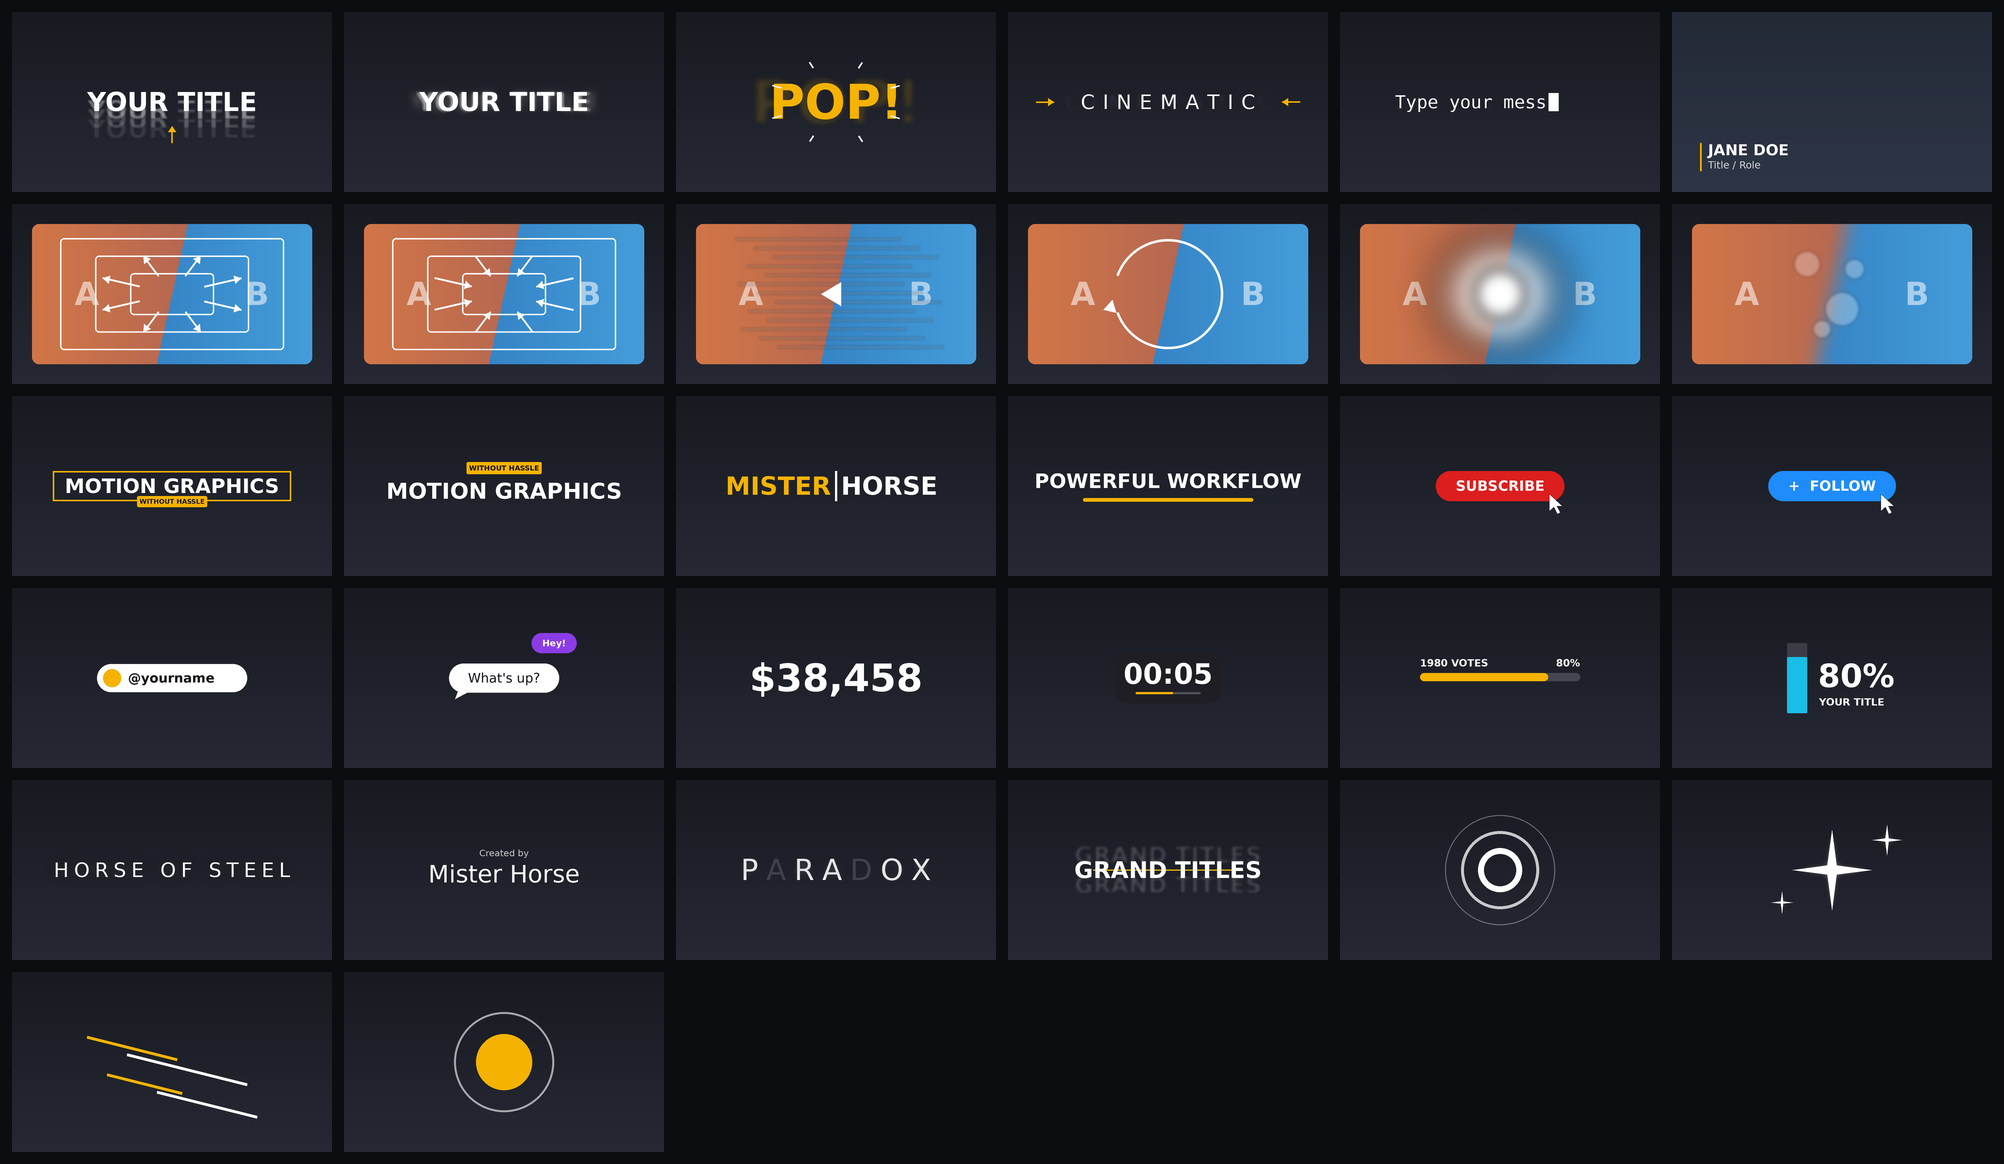
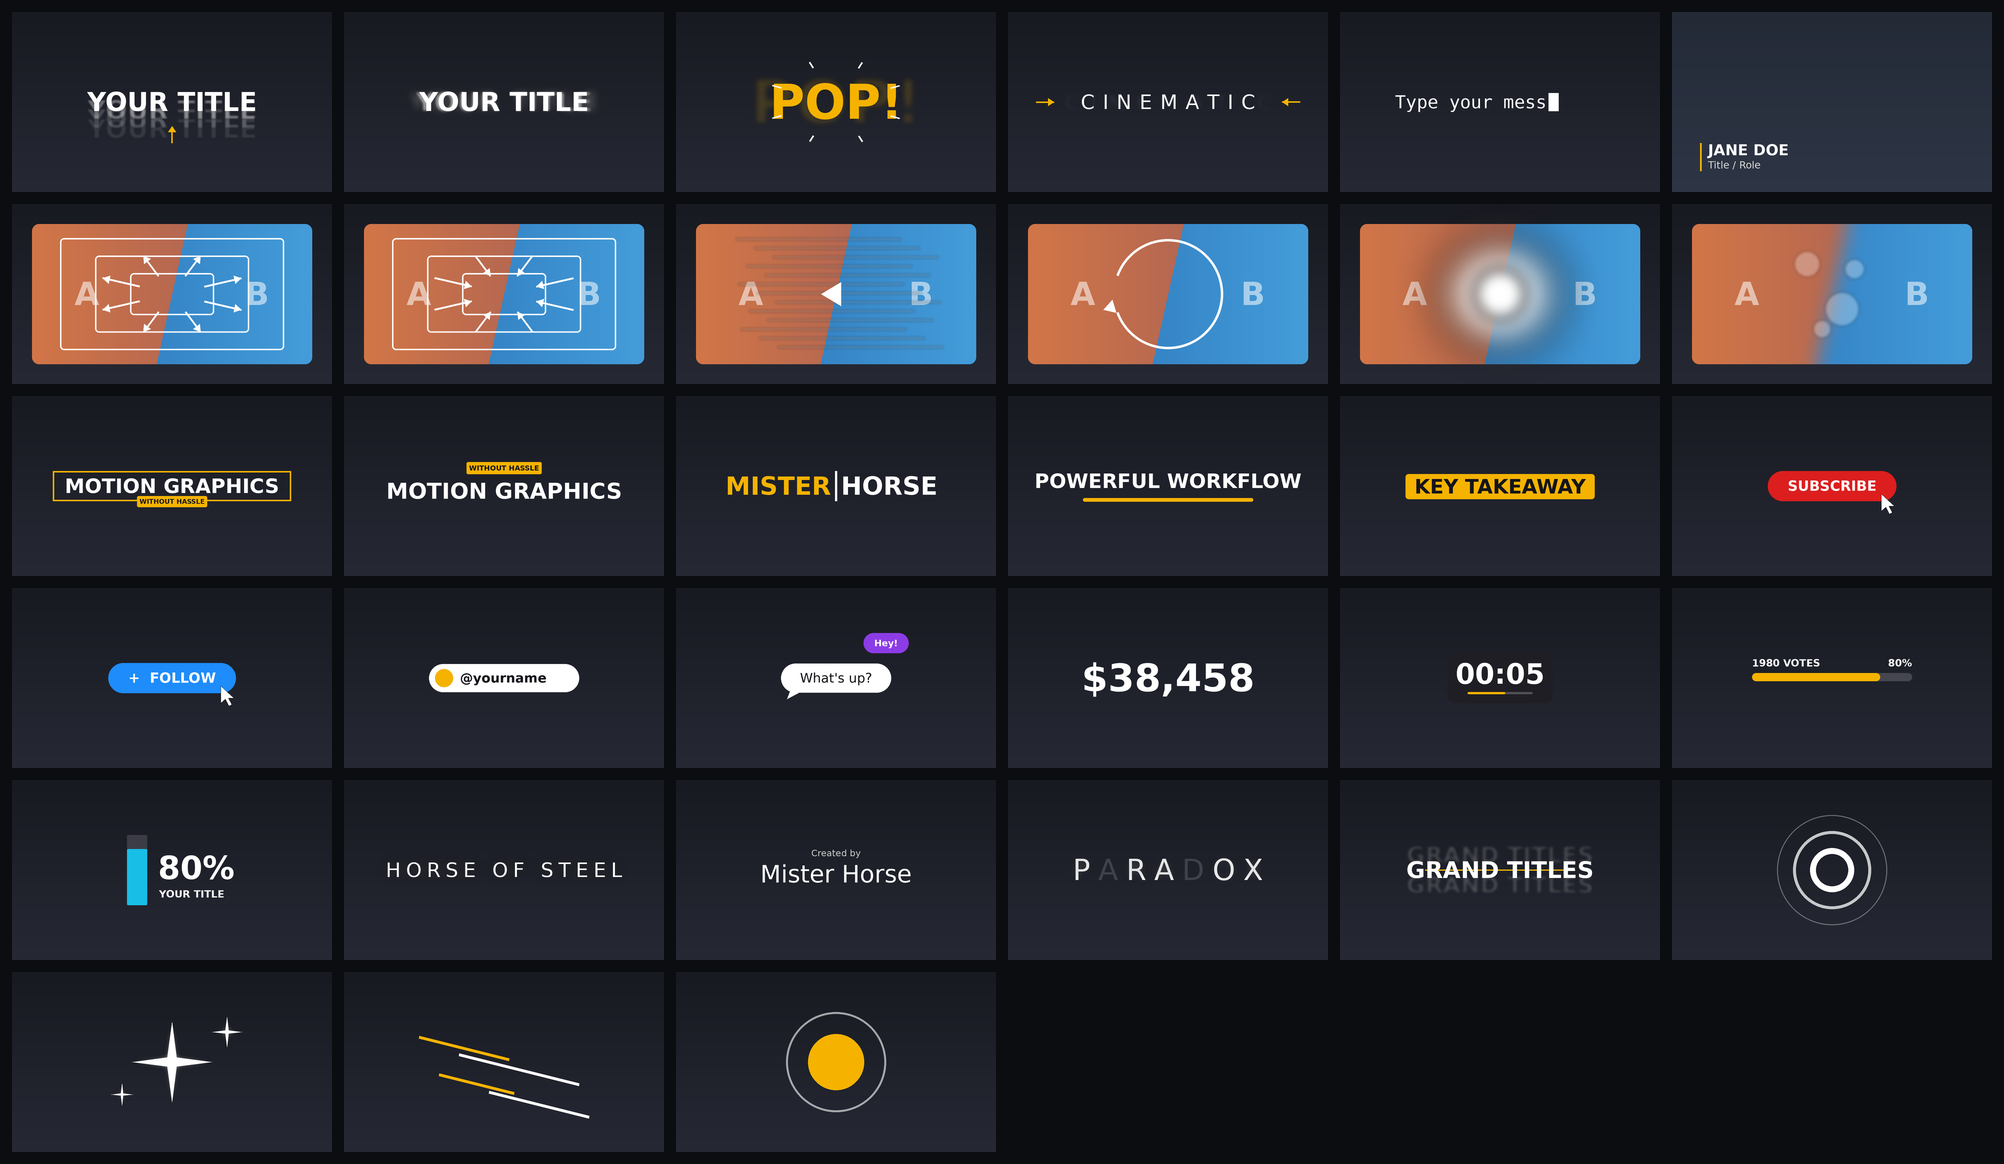
Add Highlight title preset (0.3.1) (#1)
A marker-style accent stroke sweeps left to right behind the title and
reveals the words as it goes, then wipes off to the right on the outro.
Highlight width, height and colour are exposed in the Inspector; the
panel's Accent field sets the marker colour.

Claude-Session: https://claude.ai/code/session_01D51MxHkrgbnfuDv61tLkz6

diff --git a/tools/library_presets.py b/tools/library_presets.py
@@ -280,6 +280,26 @@ def underline():
     return r.build(f"{h}.Ease")
 
 
+def highlight():
+    r = Rig("LL_Highlight", 20, 12, host_inputs=text_inputs("KEY TAKEAWAY", 0.06, center=(0.5, 0.505), rgb=DARK))
+    h = r.h
+    mw = r.control("MarkWidth", "Highlight Width", 0.34, 0, 1)
+    mh = r.control("MarkHeight", "Highlight Height", 0.075, 0, 0.5)
+    # a marker stroke: the right edge sweeps in left to right, then the left edge follows it out
+    left = f"(0.5 - {mw} / 2 + {mw} * (1 - {h}.EaseOut))"
+    width = f"max({mw} * ({h}.EaseIn + {h}.EaseOut - 1), 0)"
+    center = f"Point({left} + {width} / 2, 0.5)"
+    r.mask("MarkMask", "RectangleMask", center, width, mh, CornerRadius=0.15)
+    r.fill("Mark", ACCENT, "MarkMask")
+    r.mask("RevealMask", "RectangleMask", center, width, 1)
+    r.layer("Mark")
+    r.layer(h, clip="RevealMask")
+    r.expose_text(h)
+    r.expose_color("Mark", "bg", "Highlight Color")
+    r.expose_host("MarkWidth", "MarkHeight")
+    return r.build(f"min({h}.EaseIn + {h}.EaseOut - 1, 1)")
+
+
 # ======================================================================================
 # Social
 # ======================================================================================
@@ -735,6 +755,7 @@ LIBRARY = {
     "LL Tag Title": tag_title,
     "LL Split Word": split_word,
     "LL Underline": underline,
+    "LL Highlight": highlight,
     "LL Subscribe": subscribe,
     "LL Follow": follow,
     "LL Handle": handle,

diff --git a/tools/make_previews.py b/tools/make_previews.py
@@ -332,6 +332,12 @@ def title_underline(c):
     c.rect((150, 204, 490, 211), ACCENT, radius=3)
 
 
+def title_highlight(c):
+    w = text_width(c, "KEY TAKEAWAY", 40) + 36
+    c.rect((320 - w / 2, 156, 320 + w / 2, 206), ACCENT, radius=6)
+    c.text("KEY TAKEAWAY", 320, 181, 40, fill=DARKC)
+
+
 def social_button(c, label, color):
     w = text_width(c, label, 28) + 80
     pill(c, 320, 180, w, 60, color)
@@ -450,6 +456,7 @@ LIBRARY_PREVIEWS = {
     "title-tag-title.png": title_tag_title,
     "title-split-word.png": title_split_word,
     "title-underline.png": title_underline,
+    "title-highlight.png": title_highlight,
     "title-subscribe.png": lambda c: social_button(c, "SUBSCRIBE", RED),
     "title-follow.png": lambda c: social_button(c, "+  FOLLOW", BLUE),
     "title-handle.png": title_handle,

diff --git a/README.md b/README.md
@@ -7,11 +7,11 @@ pick a look in a panel, click once, and it lands on your timeline.
 
 - **Loom Letter panel** (Workspace > Scripts > Loom Letter) with a searchable list of presets,
   previews, and one-click apply.
-- **26 animated titles in five categories** (filter them in the panel). They are real Fusion
+- **27 animated titles in five categories** (filter them in the panel). They are real Fusion
   Titles, so every look stays editable in the Inspector, and the in/out animation follows the
   clip when you trim it.
-  - *Essential Typography*: Slide Up, Boxed Title, Tag Title, Split Word, Underline, Pop,
-    Typewriter, Lower Third
+  - *Essential Typography*: Slide Up, Boxed Title, Tag Title, Split Word, Underline, Highlight,
+    Pop, Typewriter, Lower Third
   - *Social Media*: Subscribe and Follow buttons (with a click and a "Subscribed" state),
     Handle, Chat Bubble
   - *Timers & Counters*: Counter (prefix, separators), Countdown, Progress Bar, Bar Stat
